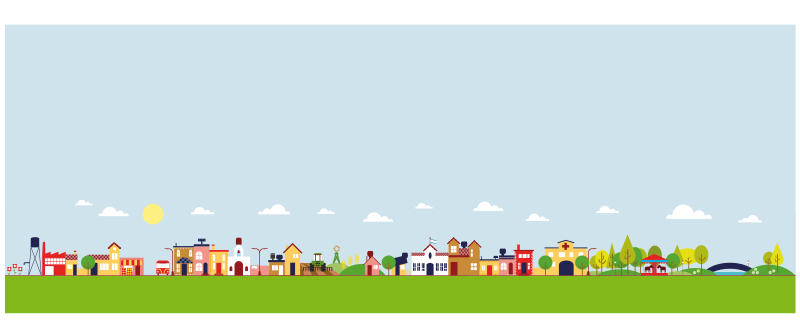
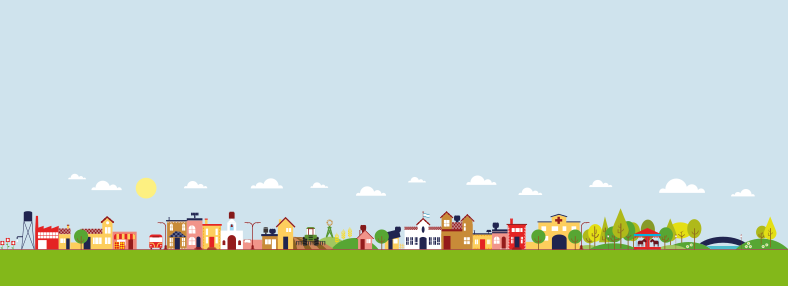
after wed

diff --git a/final/transition.js b/final/transition.js
@@ -3,17 +3,26 @@ const follow = document.getElementById("follow");
 let lettersDropped = false;
 let grandpaImageShown = false;
 
+let mouseX = 100;
+let mouseY = 100;
+let grandpaImg;
+let controlingGrandpa = true;
+
 // Let a text "grandpa" appears on the cursor
 function handleMouseMove(e) {
-    follow.style.left = e.clientX + 10 + "px";
-    follow.style.top = e.clientY + 10 + "px";
+    mouseX = e.clientX;
+    mouseY = e.clientY;
+
+    
+    follow.style.left = mouseX + 10 + "px";
+    follow.style.top = mouseY + 10 + "px";
 }
 
-// 显示 grandpa 并开始跟随
+
 follow.style.display = "block";
 document.addEventListener("mousemove", handleMouseMove);
 
-// 创建 8 屏高的渐变页面
+
 const page = document.createElement("div");
 page.className = "extra-page";
 body.appendChild(page);
@@ -29,7 +38,8 @@ townBg.appendChild(img);
 body.appendChild(townBg);
 
 // while scrolling the letters fall apart and disappear
-window.addEventListener("scroll", function () {
+window.addEventListener("scroll", function (e) {
+    console.log(e)
     const scrollTop = window.scrollY;
     const extraPageTop = page.offsetTop;
     const extraPageHeight = page.offsetHeight;
@@ -47,7 +57,7 @@ window.addEventListener("scroll", function () {
           const randomX = (Math.random() - 0.5) * spreadX;
           const randomY = minY + Math.random() * (maxY - minY);
       
-          letter.style.transition = "transform 6s ease-out, opacity 5s ease-out";
+          letter.style.transition = "transform 8s ease-out, opacity 7s ease-out";
           letter.style.transform = `translate(${randomX}px, ${randomY}px)`;
           letter.style.opacity = "0";
         });
@@ -55,22 +65,50 @@ window.addEventListener("scroll", function () {
     if (scrollProgress > 0.8) {
 
         follow.style.display = "none";
-        const grandpaImg = document.createElement("img");
-        grandpaImg.src = "assets/grandpa.png";
-        grandpaImg.alt = "grandpa";
-        grandpaImg.style.position = "fixed";
-        grandpaImg.style.pointerEvents = "none";
-        grandpaImg.style.width = "120px";
-        grandpaImg.style.height = "auto";
-        grandpaImg.style.transform = "translate(-50%, -50%)";
-        grandpaImg.style.zIndex = "999";
+        
+        if(grandpaImg == undefined){
+            grandpaImg = document.createElement("img");
+            grandpaImg.src = "assets/grandpa.png";
+            grandpaImg.alt = "grandpa";
+            grandpaImg.style.position = "fixed";
+            grandpaImg.style.pointerEvents = "none";
+            grandpaImg.style.width = "120px";
+            grandpaImg.style.height = "auto";
+            // grandpaImg.style.marginTop = "-100%"
+            grandpaImg.style.transform = "translate(-50%, -94%)";
+            grandpaImg.style.zIndex = "999";
+            grandpaImg.id="grandpaImg";
 
-        body.appendChild(grandpaImg);
+            body.appendChild(grandpaImg);
+        }
+        
+        
+        grandpaImg.style.left = mouseX + "px";
+        grandpaImg.style.top = mouseY + "px";
 
 
         document.addEventListener("mousemove", function moveGrandpa(e) {
-            grandpaImg.style.left = e.clientX + "px";
-            grandpaImg.style.top = e.clientY + "px";
+            if(controlingGrandpa == true){
+                grandpaImg.style.top = e.clientY + "px";
+                grandpaImg.style.left = e.clientX + "px";
+            
+            }
+
+            let greenY = window.innerHeight * 0.875;
+
+            if(scrollProgress > 0.99 && e.clientY > greenY){
+                controlingGrandpa = false;
+                grandpaImg.style.top = greenY + "px";
+            }
+            
+
+            // let greenY = window.innerHeight * 0.875;
+            // console.log(scrollProgress)
+            // if(e.clientY  < greenY){
+            //     grandpaImg.style.top = e.clientY + "px";
+            // }
+            // grandpaImg.style.left = e.clientX + "px";
+            
         });
     }
 });

diff --git a/final/style.css b/final/style.css
@@ -1,4 +1,4 @@
-/* 允许横向和纵向滚动 */
+
 html, body {
     overflow-x: auto;
     overflow-y: auto;
@@ -8,13 +8,6 @@ html, body {
 
 body {
     background-color: black;
-    /*     
-    background-image: 
-    url(assets/background-image-1.png);
-    background-repeat: no-repeat;
-    background-position: center center;
-    background-size: 100% 100%;
-    background-attachment: fixed; */
 }
 
 
@@ -35,10 +28,10 @@ margin-left: -50%;
 /* gardient color generator: https://cssgradient.io/ */
 .daytime-background {
   background: radial-gradient(circle, rgba(238,174,202,1) 0%, rgba(148,187,233,1) 100%);
-  background-size: cover;           /* 保证填满视口 */
+  background-size: cover;           
   background-position: center center;
-  background-attachment: fixed;     /* 如果想要固定视差效果 */
-  min-height: 100vh;                /* 确保覆盖全屏 */
+  background-attachment: fixed;     
+  min-height: 100vh;               
 }
 .midnight-background {
   background: radial-gradient(circle, rgba(2,0,36,1) 0%, rgba(32,32,59,1) 35%, rgba(18,41,46,1) 100%);
@@ -47,17 +40,6 @@ margin-left: -50%;
   background-attachment: fixed;
   min-height: 100vh;
 }
-/* @keyframes pulse {
-
-    0%,
-    100% {
-        transform: translate(0px, 0px) scale(1);
-    }
-
-    50% {
-        transform: translate(0px, 0px) scale(1.2);
-    } */
-/* } */
 
 .windowHeight {
     height: 100vh;
@@ -74,13 +56,13 @@ margin-left: -50%;
     font-weight: 600;
 }
 
-/* ✅ 字母样式 */
+
 #follow .grandpa {
     display: inline-block;
     transition: transform 1s ease-out, opacity 1s ease-out;
 }
 
-/* 额外追加的页面：8 屏高，用 CSS 渐变从夜到日 */
+
 .extra-page {
   height: 800vh;
   width: 100%;
@@ -96,19 +78,21 @@ margin-left: -50%;
   );
 }
 
-/* small-town-background：横向长图，高度自适应屏幕 */
+
 #small-town-background {
-  height: 100vh;  /* 高度 = 屏幕高度 */
-  width: fit-content;  /* 宽度适应内容（图片宽度） */
+  height: 100vh;  
+  width: 100vw;
+  overflow-x: scroll;
   display: block;
   margin: 0;
   background-color: rgba(197, 221, 233, 1);
+      
 }
 
 #small-town-background img {
-  height: 100%;  /* 图片高度 = 屏幕高度 */
-  width: auto;    /* 宽度按比例自动计算 */
+  height: 100%; 
+  width: auto;    
   display: block;
-  object-fit: contain;  /* 保持图片比例 */
+  object-fit: contain;  
   margin: 0px;
 }
